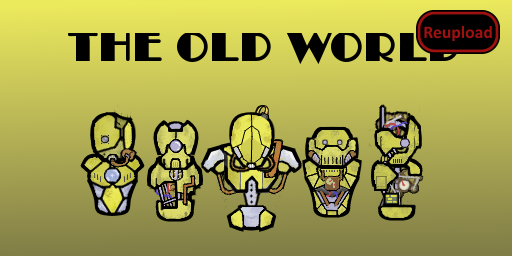
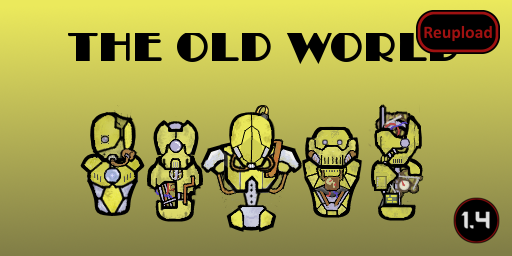
Last update, added end-of-life message

Changed region(s): [[0.875, 0.75, 1.0, 0.9688]]

diff --git a/README.md b/README.md
@@ -1,22 +1,22 @@
-# TheOldWorld
+# [[Abandoned] The Old World (Continued)](https://steamcommunity.com/sharedfiles/filedetails/?id=2109892552)
 
 ![Image](https://i.imgur.com/buuPQel.png)
 
 Update of Atlas, APurpleApple, MrSlyFoxJrs mod
 https://ludeon.com/forums/index.php?topic=41568.0
 
+- To use this with 1.3 and older you need [Android Tiers](https://steamcommunity.com/sharedfiles/filedetails/?id=1386412863) instead
+
 — User description (by Emperor) —
 Reskin of T1-T5, and some of the work benches.
 It has the steam turret as a defense weapon.
 It also has weapons that it adds in, and you can see those in the last screenshot.
 
-Added support for https://steamcommunity.com/sharedfiles/filedetails/?id=2566107206]Android tiers - Gynoids Reborn
+Added support for [Android tiers - Gynoids Reborn](https://steamcommunity.com/sharedfiles/filedetails/?id=2566107206)
 
-![Image](https://i.imgur.com/pufA0kM.png)
-
+![Image](https://i.imgur.com/3npT60J.png)
 	
 ![Image](https://i.imgur.com/Z4GOv8H.png)
-
 
 "The Old World" is an Android Tiers Add-on mod that aims to build and gather all steampunk themed elements into one ambitious mod.
 
@@ -27,12 +27,12 @@ Added support for https://steamcommunity.com/sharedfiles/filedetails/?id=2566107
 
 -  See if the the error persists if you just have this mod and its requirements active.
 -  If not, try adding your other mods until it happens again.
--  Post your error-log using https://steamcommunity.com/workshop/filedetails/?id=818773962]HugsLib and command Ctrl+F12
+-  Post your error-log using [HugsLib](https://steamcommunity.com/workshop/filedetails/?id=818773962) or the standalone [Uploader](https://steamcommunity.com/sharedfiles/filedetails/?id=2873415404) and command Ctrl+F12
 -  For best support, please use the Discord-channel for error-reporting.
 -  Do not report errors by making a discussion-thread, I get no notification of that.
 -  If you have the solution for a problem, please post it to the GitHub repository.
+-  Use [RimSort](https://github.com/RimSort/RimSort/releases/latest) to sort your mods
 
+ 
 
-
-
-https://steamcommunity.com/sharedfiles/filedetails/changelog/2109892552]Last updated 2023-02-10
+[![Image](https://img.shields.io/github/v/release/emipa606/TheOldWorld?label=latest%20version&style=plastic&color=9f1111&labelColor=black)](https://steamcommunity.com/sharedfiles/filedetails/changelog/2109892552)
